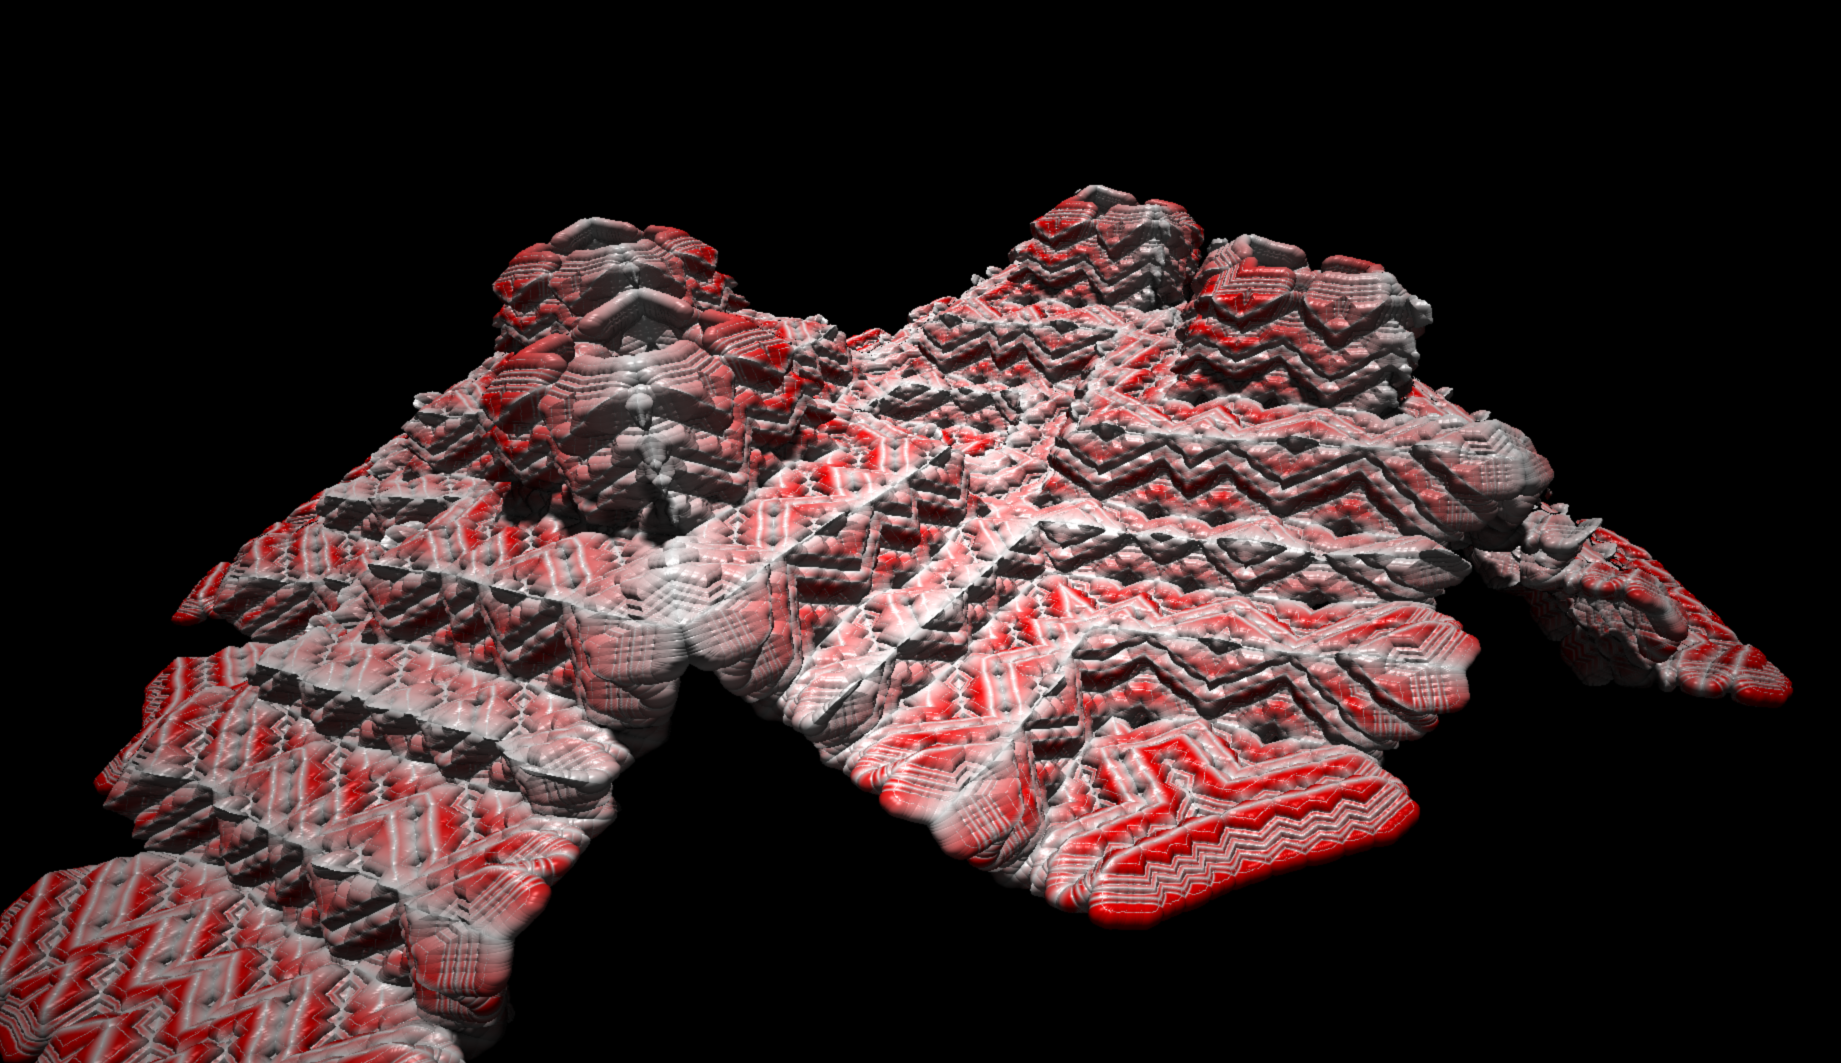
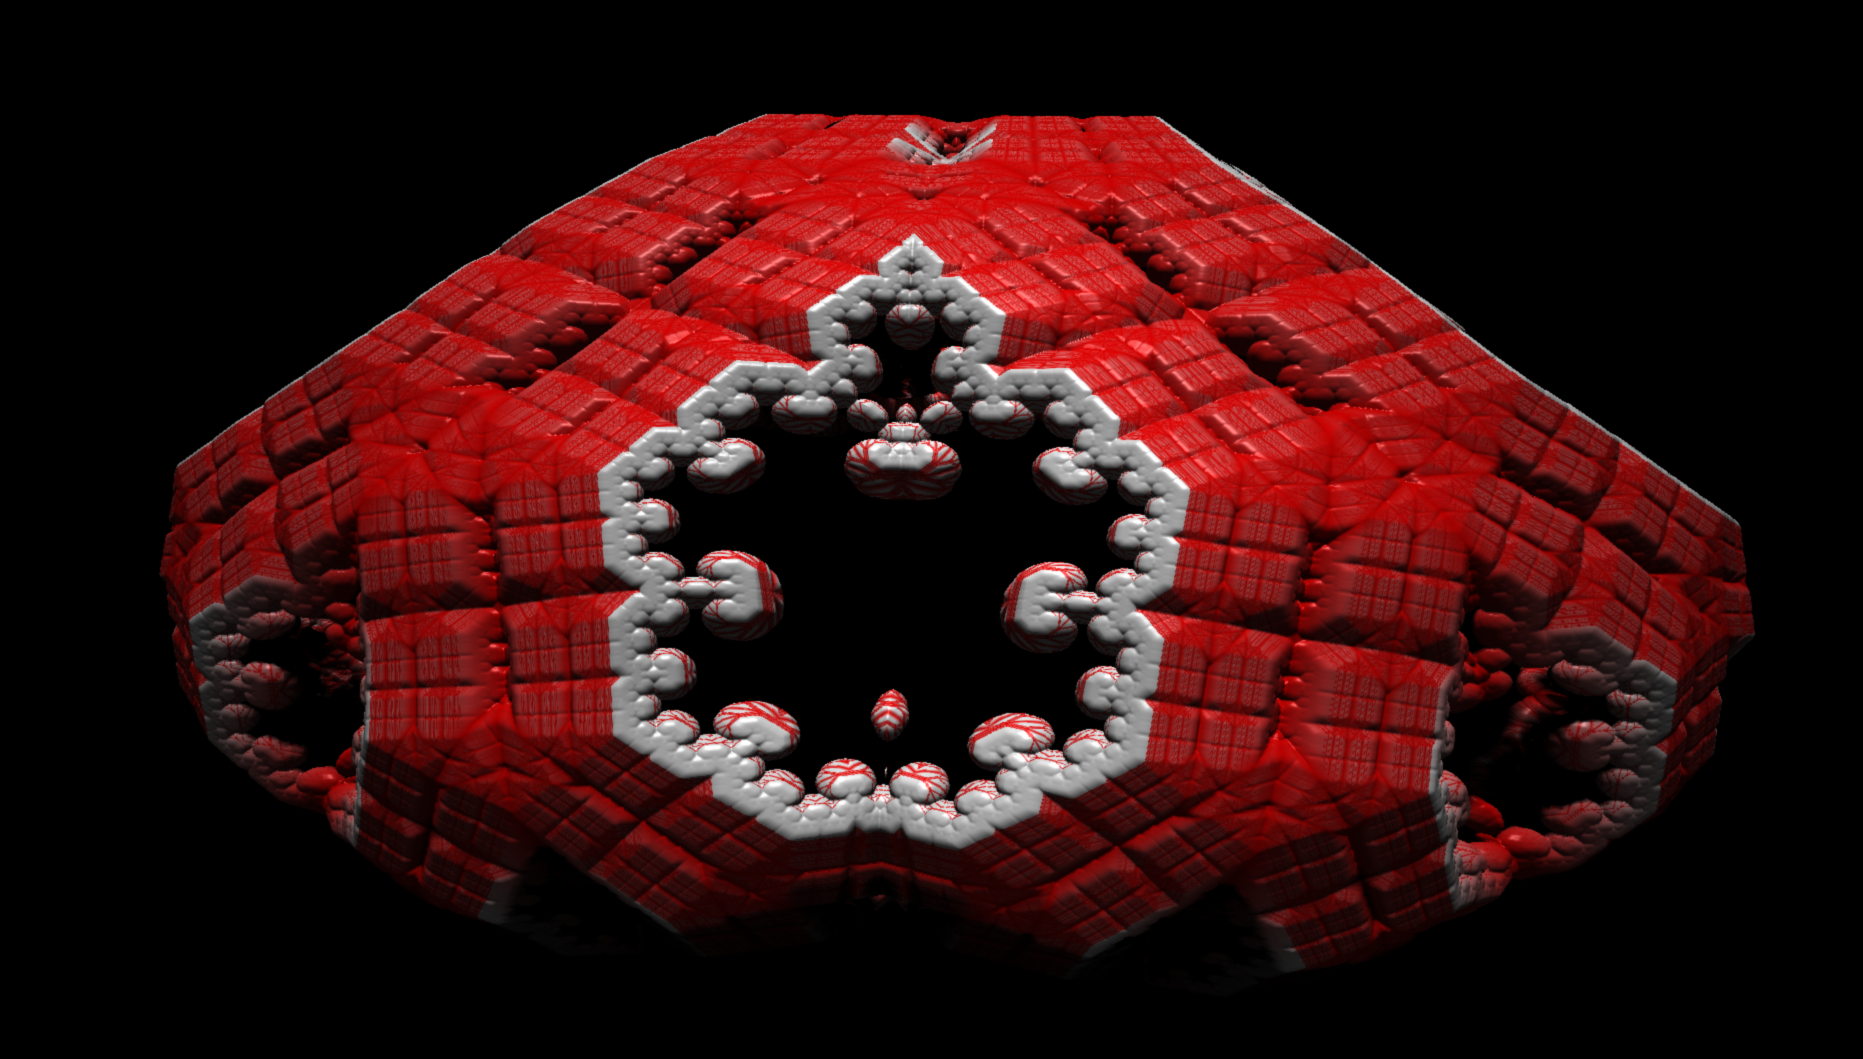
doc

diff --git a/2018/shadertoy/001-Kali-Underwater-Creature/ShaderMaker.cpp b/2018/shadertoy/001-Kali-Underwater-Creature/ShaderMaker.cpp
@@ -85,30 +85,30 @@ int (*cross_secure_sprintf)(char *, size_t, const char *, ...) = snprintf;
 #define FFPARAM_VECTOR2_Z       (6)
 #define FFPARAM_VECTOR2_W       (7)
 
-#define FFPARAM_VECTOR3_X       (8)
-#define FFPARAM_VECTOR3_Y       (9)
-#define FFPARAM_VECTOR3_Z       (10)
-#define FFPARAM_VECTOR3_W       (11)
-
-#define FFPARAM_VECTOR4_X       (12)
-#define FFPARAM_VECTOR4_Y       (13)
-#define FFPARAM_VECTOR4_Z       (14)
-#define FFPARAM_VECTOR4_W       (15)
-
-
-#define FFPARAM_VECTOR5_X       (16)
-#define FFPARAM_VECTOR5_Y       (17)
-#define FFPARAM_VECTOR5_Z       (18)
+#define FFPARAM_VECTOR5_X       (8)
+#define FFPARAM_VECTOR5_Y       (9)
+#define FFPARAM_VECTOR5_Z       (10)
 #define FFPARAM_VECTOR5_W       (100028)
 
-#define FFPARAM_COLOR1_RED       (19)  
-#define FFPARAM_COLOR1_GREEN       (20)  
-#define FFPARAM_COLOR1_BLUE       (21)  
+#define FFPARAM_VECTOR3_X       (11)
+#define FFPARAM_VECTOR3_Y       (12)
+#define FFPARAM_VECTOR3_Z       (13)
+#define FFPARAM_VECTOR3_W       (100011)
+
+#define FFPARAM_VECTOR4_X       (14)
+#define FFPARAM_VECTOR4_Y       (15)
+#define FFPARAM_VECTOR4_Z       (16)
+#define FFPARAM_VECTOR4_W       (10000015)
+
+
+#define FFPARAM_COLOR1_RED       (17)  
+#define FFPARAM_COLOR1_GREEN       (18)  
+#define FFPARAM_COLOR1_BLUE       (19)  
 #define FFPARAM_COLOR1_ALPHA       (115)  
 
-#define FFPARAM_COLOR2_RED       (22)  
-#define FFPARAM_COLOR2_GREEN       (23)  
-#define FFPARAM_COLOR2_BLUE       (24)  
+#define FFPARAM_COLOR2_RED       (20)  
+#define FFPARAM_COLOR2_GREEN       (21)  
+#define FFPARAM_COLOR2_BLUE       (22)  
 #define FFPARAM_COLOR2_ALPHA       (1110)   
 #define STRINGIFY(A) #A
 
@@ -118,15 +118,15 @@ int (*cross_secure_sprintf)(char *, size_t, const char *, ...) = snprintf;
 static CFFGLPluginInfo PluginInfo ( 
 	ShaderMaker::CreateInstance,		// Create method
 	"ST01",								// *** Plugin unique ID (4 chars) - this must be unique for each plugin
-	"Shadertoy Kali Underwater",						// *** Plugin name - make it different for each plugin 
+	"SoM ST Living",						// *** Plugin name - make it different for each plugin 
 	1,						   			// API major version number 													
 	006,								// API minor version number	
 	1,									// *** Plugin major version number
 	000,								// *** Plugin minor version number
 	// FF_EFFECT,							// Plugin type can always be an effect
 	FF_SOURCE,						// or change this to FF_SOURCE for shaders that do not use a texture
-	"SoM Base Shader - extended from", // *** Plugin description - you can expand on this
-	"https://github.com/leadedge/ShaderMaker"			// *** About - use your own name and details
+	"SoM Kali Living Creature", // *** Plugin description - you can expand on this
+	"https://www.shadertoy.com/view/Mtf3Rr"			// *** About - use your own name and details
 );
 
 
@@ -437,20 +437,24 @@ float de(vec3 p) {
 );
 
 #define DEBUG_
+
 ////////////////////////////////////////////////////////////////////////////////////////////////////
 //  Constructor and destructor
 ////////////////////////////////////////////////////////////////////////////////////////////////////
-ShaderMaker::ShaderMaker():CFreeFrameGLPlugin()
+ShaderMaker::ShaderMaker() :CFreeFrameGLPlugin()
 {
 
+#ifdef DEBUG
 	// Debug console window so printf works
 	FILE* pCout; // should really be freed on exit 
 	AllocConsole();
-	freopen_s(&pCout, "CONOUT$", "w", stdout); 
+	freopen_s(&pCout, "CONOUT$", "w", stdout);
 	printf("Shader Maker Vers 1.004\n");
-	printf("Spack-O-Mat Shadertoy Kali Underwater Creature \n");
 	printf("GLSL version [%s]\n", glGetString(GL_SHADING_LANGUAGE_VERSION));
-	
+#endif
+
+	printf("id: '%s' name: '%s'", PluginInfo.GetPluginInfo()->PluginUniqueID, PluginInfo.GetPluginInfo()->PluginName);
+	printf(" version: '%i.%i'\n", PluginInfo.GetPluginExtendedInfo()->PluginMajorVersion, PluginInfo.GetPluginExtendedInfo()->PluginMinorVersion);
 
 	// Input properties allow for no texture or for four textures
 	SetMinInputs(0);
@@ -477,25 +481,25 @@ ShaderMaker::ShaderMaker():CFreeFrameGLPlugin()
 
 
 	SetParamInfo(FFPARAM_VECTOR2_X, "Julia X", FF_TYPE_STANDARD, 0.5f);
-	SetParamInfo(FFPARAM_VECTOR2_Y, "Julia Y", FF_TYPE_STANDARD, 0.5f);
+	SetParamInfo(FFPARAM_VECTOR2_Y, "Julia Y", FF_TYPE_STANDARD, 1.0f);
 	SetParamInfo(FFPARAM_VECTOR2_Z, "Julia Z", FF_TYPE_STANDARD, 0.5f);
 	SetParamInfo(FFPARAM_VECTOR2_W, "Rotangle 1", FF_TYPE_STANDARD, 0.5f);
 
 
 	SetParamInfo(FFPARAM_VECTOR3_X, "Object Inclination", FF_TYPE_STANDARD, 0.5f);
 	SetParamInfo(FFPARAM_VECTOR3_Y, "Object Elevation", FF_TYPE_STANDARD, 0.5f);
-	SetParamInfo(FFPARAM_VECTOR3_Z, "Object Scale", FF_TYPE_STANDARD, 0.5f);
-	SetParamInfo(FFPARAM_VECTOR3_W, "Rotangle 2", FF_TYPE_STANDARD, 0.5f);
+	SetParamInfo(FFPARAM_VECTOR3_Z, "Object Scale", FF_TYPE_STANDARD, 0.75f);
+//	SetParamInfo(FFPARAM_VECTOR3_W, "Rotangle 2", FF_TYPE_STANDARD, 0.5f);
 
 
 	SetParamInfo(FFPARAM_VECTOR4_X, "Oject SHift x", FF_TYPE_STANDARD, 0.5f);
-	SetParamInfo(FFPARAM_VECTOR4_Y, "Oject SHift x", FF_TYPE_STANDARD, 0.5f);
+	SetParamInfo(FFPARAM_VECTOR4_Y, "Oject SHift y", FF_TYPE_STANDARD, 0.5f);
 	SetParamInfo(FFPARAM_VECTOR4_Z, "Oject SHift z", FF_TYPE_STANDARD, 0.5f);
-	SetParamInfo(FFPARAM_VECTOR4_W, "Rotangle 3", FF_TYPE_STANDARD, 0.5f);
+//	SetParamInfo(FFPARAM_VECTOR4_W, "Rotangle 3", FF_TYPE_STANDARD, 0.5f);
 
 
-	SetParamInfo(FFPARAM_VECTOR5_X, "Azimuth", FF_TYPE_STANDARD, 0.5f);
-	SetParamInfo(FFPARAM_VECTOR5_Y, "Latitude", FF_TYPE_STANDARD, 0.5f);
+	SetParamInfo(FFPARAM_VECTOR5_X, "Azimuth", FF_TYPE_STANDARD, 0.75f);
+	SetParamInfo(FFPARAM_VECTOR5_Y, "Latitude", FF_TYPE_STANDARD, 0.2f);
  //	SetParamInfo(FFPARAM_VECTOR5_Z, "Unused", FF_TYPE_STANDARD, 0.5f);
 //	SetParamInfo(FFPARAM_VECTOR5_W, "unusedVector5W", FF_TYPE_STANDARD, 0.5f);
 

diff --git a/2018/shadertoy/001-XT-Kali-Underwater-Creature/ShaderMaker.cpp b/2018/shadertoy/001-XT-Kali-Underwater-Creature/ShaderMaker.cpp
@@ -139,15 +139,15 @@ int (*cross_secure_sprintf)(char *, size_t, const char *, ...) = snprintf;
 static CFFGLPluginInfo PluginInfo ( 
 	ShaderMaker::CreateInstance,		// Create method
 	"SX01",								// *** Plugin unique ID (4 chars) - this must be unique for each plugin
-	"SoM XT Kali Underwater",						// *** Plugin name - make it different for each plugin 
+	"SoM ST Living XT",						// *** Plugin name - make it different for each plugin 
 	1,						   			// API major version number 													
 	006,								// API minor version number	
 	1,									// *** Plugin major version number
 	001,								// *** Plugin minor version number
 	// FF_EFFECT,							// Plugin type can always be an effect
 	FF_SOURCE,						// or change this to FF_SOURCE for shaders that do not use a texture
-	"SoM Kali Underwater Extended", // *** Plugin description - you can expand on this
-	"https://www.shadertoy.com/view/Mtf3Rr https://github.com/leadedge/ShaderMaker"			// *** About - use your own name and details
+	"SoM Kali Living Creature Extended", // *** Plugin description - you can expand on this
+	"https://www.shadertoy.com/view/Mtf3Rr"			// *** About - use your own name and details
 );
 
 
@@ -402,21 +402,26 @@ float de(vec3 p) {
 
 );
 
-#define DEBUG
+
+#define DEBUG_
+
 ////////////////////////////////////////////////////////////////////////////////////////////////////
 //  Constructor and destructor
 ////////////////////////////////////////////////////////////////////////////////////////////////////
-ShaderMaker::ShaderMaker():CFreeFrameGLPlugin()
+ShaderMaker::ShaderMaker() :CFreeFrameGLPlugin()
 {
 
+#ifdef DEBUG
 	// Debug console window so printf works
 	FILE* pCout; // should really be freed on exit 
 	AllocConsole();
-	freopen_s(&pCout, "CONOUT$", "w", stdout); 
+	freopen_s(&pCout, "CONOUT$", "w", stdout);
 	printf("Shader Maker Vers 1.004\n");
-	printf("Spack-O-Mat Shadertoy Kali Underwater Creature \n");
 	printf("GLSL version [%s]\n", glGetString(GL_SHADING_LANGUAGE_VERSION));
-	
+#endif
+
+	printf("id: '%s' name: '%s'", PluginInfo.GetPluginInfo()->PluginUniqueID, PluginInfo.GetPluginInfo()->PluginName);
+	printf(" version: '%i.%i'\n", PluginInfo.GetPluginExtendedInfo()->PluginMajorVersion, PluginInfo.GetPluginExtendedInfo()->PluginMinorVersion);
 
 	// Input properties allow for no texture or for four textures
 	SetMinInputs(0);

diff --git a/release/README.md b/release/README.md
@@ -140,9 +140,21 @@ nice core functionality, not using a pre render step, might receive a gaussian b
                                     
 | Render | Parameters |
 | ------------- | ------------- |   
-|![one of i-love-chaos logos print your own more than endless possibilities](media/st-001-kaliseacreature.png )   |
-           
+|![kali seacreature](media/st-001-kaliseacreature.png )   |  ![kali seacreature](media/st-001-kaliseacreature-params.png ) 
 
+           
+           
+- Speed - shadertoy speed value, this is a continous value and will ever increase
+- kaliscale - the scale value used in iteration
+- kaliSpeed - kalis speed value for inner animation 
+- Amplitude - the overall amplitude applied to kalispeed anims
+- Julia X/Y/Z - the julia add value 
+- Rotangle - the rotation defined by axis (see next)
+- Azimuth/Latitude - polar angle axis definition both values range 2PI (repeable)
+- Object Inclination/Elevation - object rotation using polar coordinate
+- Ojbect Shift X/Y/Z - object translation
+- Color 1/2 - the color gradient is applied to the surface of the object
+            
 ### 001 Kali Sea Creature Extended
                                     
 | Render | Parameters |
